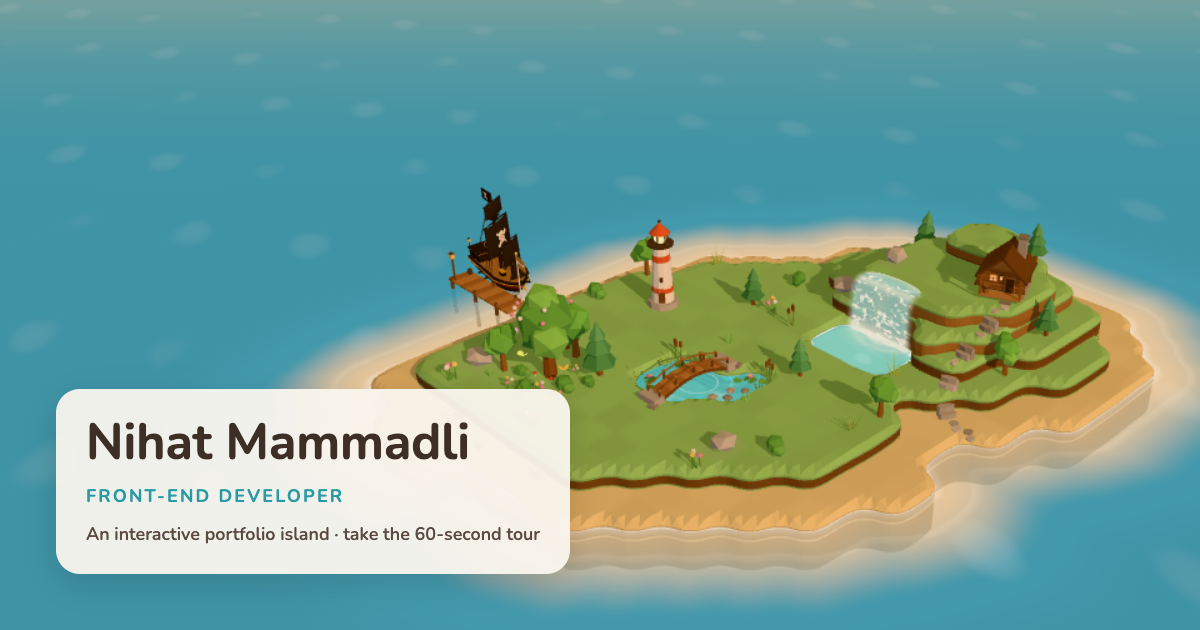
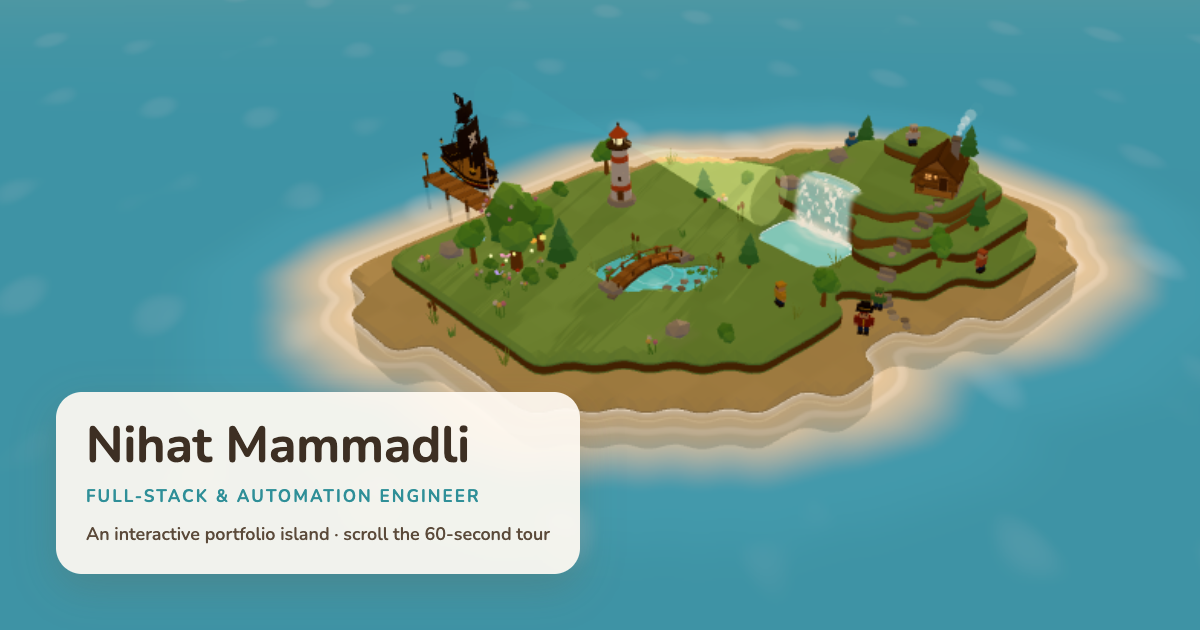
Retime the scroll tour and polish it for phones
Fifth phase of the scroll tour: more room for each build, a shorter
stop card and a fixed canvas height on phones, a new link-preview
image with the current role, the ship docked in free play, and the
click tour's leftover styles removed.

diff --git a/src/ui/story/Story.css b/src/ui/story/Story.css
@@ -311,67 +311,6 @@
   color: #4a3a2c;
 }
 
-.dlg-actions {
-  display: flex;
-  flex-wrap: wrap;
-  gap: 6px;
-  justify-content: flex-end;
-}
-
-.dlg-btn {
-  text-decoration: none;
-  display: inline-flex;
-  align-items: center;
-  gap: 6px;
-  padding: 6px 13px;
-  border: none;
-  border-radius: 999px;
-  background: rgba(107, 86, 68, 0.08);
-  color: #5b4a3a;
-  font: inherit;
-  font-size: 12.5px;
-  font-weight: 700;
-  cursor: pointer;
-  touch-action: manipulation;
-  -webkit-tap-highlight-color: transparent;
-}
-
-.dlg-btn:hover {
-  background: rgba(107, 86, 68, 0.15);
-}
-
-.dlg-btn:focus-visible {
-  outline: 2px solid #e9a55a;
-  outline-offset: 2px;
-}
-
-.dlg-btn.primary {
-  background: #e9a55a;
-  color: #fff;
-}
-
-.dlg-btn.primary:hover {
-  background: #db8f3f;
-}
-
-.dlg-btn.ghost {
-  background: transparent;
-  opacity: 0.7;
-}
-
-.dlg-btn.ghost:hover {
-  opacity: 1;
-  background: rgba(107, 86, 68, 0.08);
-}
-
-.dlg-cue {
-  margin-right: auto;
-  align-self: center;
-  font-size: 12.5px;
-  font-weight: 700;
-  color: #c97a2a;
-}
-
 @keyframes dlg-in {
   from { opacity: 0; transform: translateY(10px) scale(0.98); }
   to { opacity: 1; transform: none; }
@@ -509,12 +448,6 @@
   transition: transform 0.18s cubic-bezier(0.34, 1.56, 0.64, 1);
 }
 
-.pf-auto-next {
-  margin-left: auto;
-  color: #9a7f68;
-  font-size: 13px;
-}
-
 .pf-continue:hover {
   transform: translateY(-2px);
   background: #db8f3f;
@@ -534,50 +467,6 @@
   border-radius: 50%;
   object-fit: cover;
   box-shadow: 0 0 0 3px #fff, 0 4px 14px rgba(120, 80, 40, 0.2);
-}
-
-/* ---------- Quest target call to action (drei Html over the glowing spot) ---------- */
-
-.quest-cta {
-  position: relative;
-  padding: 9px 16px;
-  border: none;
-  border-radius: 999px;
-  background: #e9a55a;
-  box-shadow: 0 8px 22px rgba(160, 90, 20, 0.4);
-  color: #fff;
-  font: inherit;
-  font-size: 15px;
-  font-weight: 700;
-  white-space: nowrap;
-  cursor: pointer;
-  touch-action: manipulation;
-  animation: cta-bounce 1.1s ease-in-out infinite;
-}
-
-/* Soft ring pulsing out of the pill (scale + opacity only). */
-.quest-cta::after {
-  content: '';
-  position: absolute;
-  inset: 0;
-  border-radius: inherit;
-  border: 3px solid #ffd27a;
-  animation: cta-ping 1.6s ease-out infinite;
-  pointer-events: none;
-}
-
-.quest-cta:focus-visible {
-  outline: 3px solid #fff;
-  outline-offset: 2px;
-}
-
-@keyframes cta-bounce {
-  50% { transform: translateY(-7px); }
-}
-
-@keyframes cta-ping {
-  from { opacity: 0.9; transform: scale(1); }
-  to { opacity: 0; transform: scale(1.5, 1.9); }
 }
 
 /* ---------- Landmark mini demos (card blocks and in-world labels) ---------- */
@@ -1154,12 +1043,17 @@
   /* Keep the top of the screen for the landmark the camera framed there. */
   .pf-card { height: auto; margin: 0; max-height: 64vh; max-height: 64dvh; }
   .pf-card .pf-media { aspect-ratio: 2 / 1; }
+  /* A tour stop's card stays low, so its landmark shows above it and under the HUD. */
+  .stop-card { max-height: 56vh; max-height: 56dvh; padding-top: 14px; }
+  .stop-card .pf-media { aspect-ratio: 5 / 2; margin-bottom: 10px; }
+  .stop-card .pf-card-foot { margin-top: 12px; padding-top: 10px; }
+  /* During the tour a swipe that starts on a card goes on to scroll the story. */
+  html.scroll-mode .pf-card { overscroll-behavior: auto; }
   .pf-close { width: 38px; height: 38px; top: 10px; right: 10px; }
   .pf-link { padding: 9px 14px; }
   .dlg { gap: 10px; padding: 11px 12px; border-radius: 18px; }
   .dlg-avatar { width: 40px; height: 40px; }
   .dlg-line { margin: 2px 0 8px; font-size: 13.5px; }
-  .dlg-btn { min-height: 36px; padding: 7px 14px; }
 }
 
 /* Phones (landscape): the captain shares the bottom row with the tools. */
@@ -1167,7 +1061,6 @@
   .dlg { width: min(420px, 52vw); margin: 0; padding: 10px 12px; }
   .dlg-avatar { width: 38px; height: 38px; }
   .dlg-line { margin: 2px 0 6px; font-size: 13px; line-height: 1.35; }
-  .dlg-btn { padding: 5px 12px; }
   .story-hud { top: 8px; }
   .story-skip { top: 8px; }
   .tod { top: 52px; width: min(320px, calc(100vw - 32px)); }
@@ -1182,6 +1075,5 @@
 
 @media (prefers-reduced-motion: reduce) {
   .pf-card, .story-btn, .dlg, .dlg-body,
-  .lm-label, .lm-preview, .pf-milestone-arrow,
-  .quest-cta, .quest-cta::after { animation: none; transition: none; }
+  .lm-label, .lm-preview, .pf-milestone-arrow { animation: none; transition: none; }
 }

diff --git a/src/ui/Toolbar.css b/src/ui/Toolbar.css
@@ -122,39 +122,6 @@
   opacity: 0.75;
 }
 
-/* The captain's current task wants this tool: a ring that pulses outward
-   (transform/opacity only, so the compositor animates it without repaints). */
-.tool.quest-pulse {
-  background: rgba(255, 231, 184, 0.5);
-}
-
-.tool.quest-pulse::before {
-  content: '';
-  position: absolute;
-  inset: 0;
-  border-radius: inherit;
-  border: 2px solid rgba(233, 165, 90, 0.7);
-  pointer-events: none;
-  animation: quest-pulse 1.6s ease-out infinite;
-}
-
-.tool.quest-pulse::after {
-  content: '';
-  position: absolute;
-  top: -4px;
-  left: 50%;
-  width: 8px;
-  height: 8px;
-  margin-left: -4px;
-  border-radius: 50%;
-  background: #e9a55a;
-}
-
-@keyframes quest-pulse {
-  from { opacity: 1; transform: scale(1); }
-  to { opacity: 0; transform: scale(1.18); }
-}
-
 @keyframes tool-bounce {
   0% { transform: scale(1); }
   35% { transform: scale(1.28) rotate(-6deg); }
@@ -228,6 +195,6 @@
 }
 
 @media (prefers-reduced-motion: reduce) {
-  .tool, .tool.active .tool-icon, .toolbar-hint, .tool.quest-pulse::before,
+  .tool, .tool.active .tool-icon, .toolbar-hint,
   .toolbar-wrap.free .toolbar, .toolbar-wrap.free .toolbar-sub { animation: none; transition: none; }
 }

diff --git a/src/story/timeline.ts b/src/story/timeline.ts
@@ -11,14 +11,17 @@ export type Part = 'sail' | 'land' | 'walk' | 'build' | 'card' | 'gather' | 'sun
 /** One stretch of the page; `from`/`to` are scroll progress (0..1). `stop` indexes TOUR, -1 outside the stops. */
 export type Segment = { part: Part; stop: number; from: number; to: number }
 
-const SAIL = 1
+// About 10.5 screens in all. At an easy pace (a screen every two seconds or so)
+// that is some 20 s of motion, plus the time spent reading five cards: a tour of 60-90 s.
+// The build gets the most room, so a landmark's rise takes a few turns of the wheel.
+const SAIL = 0.9
 const LAND = 0.5
-const WALK = 0.45
-const BUILD = 0.5
-const CARD = 0.6
+const WALK = 0.4
+const BUILD = 0.65
+const CARD = 0.55
 const GATHER = 0.4
-const SUNSET = 0.6
-const CONTACT = 0.5
+const SUNSET = 0.5
+const CONTACT = 0.4
 
 const lengths: Array<readonly [Part, number, number]> = [
   ['sail', -1, SAIL],

diff --git a/src/scene/story/Ship.tsx b/src/scene/story/Ship.tsx
@@ -1,7 +1,7 @@
 import { useEffect, useMemo, useRef } from 'react'
 import { useFrame } from '@react-three/fiber'
 import { Group, Vector3 } from 'three'
-import { useStoryStore } from '../../store/useStoryStore'
+import { isTourActive, useStoryStore } from '../../store/useStoryStore'
 import { findPier } from '../../story/landmarks'
 import { QUESTS } from '../../story/quests'
 import { scroll } from '../../story/scroll'
@@ -52,7 +52,8 @@ export function Ship() {
     const t = state.clock.elapsedTime
     const story = useStoryStore.getState()
 
-    const sailed = progressIn(SAIL, scroll.value)
+    // Free play: tied up, wherever the page was left.
+    const sailed = isTourActive(story) ? progressIn(SAIL, scroll.value) : 1
     if (sailed >= 1 && story.shipState === 'arriving') story.setShipState('docked')
     const u = easeOut(sailed)
     path.getPointAt(u, point)

diff --git a/src/index.css b/src/index.css
@@ -13,7 +13,17 @@ body {
 /* The island stays put; the page scrolls past it (ui/story/ScrollTrack). */
 .stage {
   position: fixed;
-  inset: 0;
+  top: 0;
+  left: 0;
+  width: 100%;
+  height: 100%;
+}
+
+/* Phones: as tall as the screen with the address bar away, so the canvas isn't resized (and redrawn) each time the bar slides in or out mid-scroll. */
+@supports (height: 100lvh) {
+  html.scroll-mode .stage {
+    height: 100lvh;
+  }
 }
 
 /* Free play: the wheel and fingers belong to the camera and tools, not the page. */

diff --git a/CLAUDE.md b/CLAUDE.md
@@ -26,7 +26,7 @@ No test suite. Verify with `npm run build` and, for visual work, a headless scre
 
 - `src/main.tsx` renders `App` (the 3D island), the only view.
 - `src/visitor.ts`: `?for=acme` personalization (`VISITOR`). `src/analytics.ts`: `track()`, provider chosen by env (see `.env.example`).
-- `index.html` + `vite.config.ts`: plain-HTML loading screen (`hideBoot()` in `src/boot.ts`) and OG tags filled from `CONTACT`. `public/og.png` is a headless capture; re-capture when the island's look changes.
+- `index.html` + `vite.config.ts`: plain-HTML loading screen (`hideBoot()` in `src/boot.ts`) and OG tags filled from `CONTACT`. `public/og.png` is a headless capture (1200×630, `skipAll()`, UI hidden, a name card added by the capture script); re-capture when the island's look or `CONTACT` changes.
 - `src/world/`: pure grid/terrain/tool logic, no React. `decor.ts` holds hand-placed scenery (`HIGHLAND`, `DECOR_FALLS`, `DECOR_CABIN`, `DECOR_PATH`); its tiles are locked, and decor must stay clear of quest areas and the pier row.
 - `src/store/`: `useIslandStore` (typed arrays + version counters, `window.island` in dev) and `useStoryStore` (the story state machine, `window.story` in dev): `phase` intro → questing (the scroll tour, `isTourActive`) → done (free play, entered with `explore()` from the contact card), `beat` = the stretch of the scroll story that is on, `shipState` arriving → docked, `openCard` = the full card, `focus` = landmark the camera flies to (free play only).
 - `src/story/`: content and story logic.
@@ -64,7 +64,7 @@ Both 5-phase plans are done (base game, then the outreach pass: hero, fly-to car
 
 In progress: the crew pass (captain + 5 men land and build the island). Phases 1–4 done (ship lands first, bare island, five stops; crew steps off, runs to each site and hammers; ending at the cabin). Its timing pass is superseded by the scroll pass.
 
-In progress: the scroll pass (the tour driven by page scroll instead of clicks; plan: `~/.claude/plans/hey-i-wanna-turn-merry-simon.md`). Phases 1–2 done (scroll plumbing, ship, hero; stops built by scroll with scrubbed rise and camera, compact cards, captain's lines by beat; the click tour is gone). Phases 3–4 done (the crew walks and hammers with the scroll; scroll-driven sunset and contact card, "Explore the island" into free play, HUD dots that jump to a stop, restore at the last stop). Next: 5 timing to 60–90 s, phones, `og.png`.
+The scroll pass is done too (5 phases: the tour is driven by page scroll instead of clicks; plan: `~/.claude/plans/hey-i-wanna-turn-merry-simon.md`). All timing is the segment lengths at the top of `story/timeline.ts`. Not yet tried on a real phone (address-bar resize, touch scrolling over cards).
 
 ## Updating this file
 
